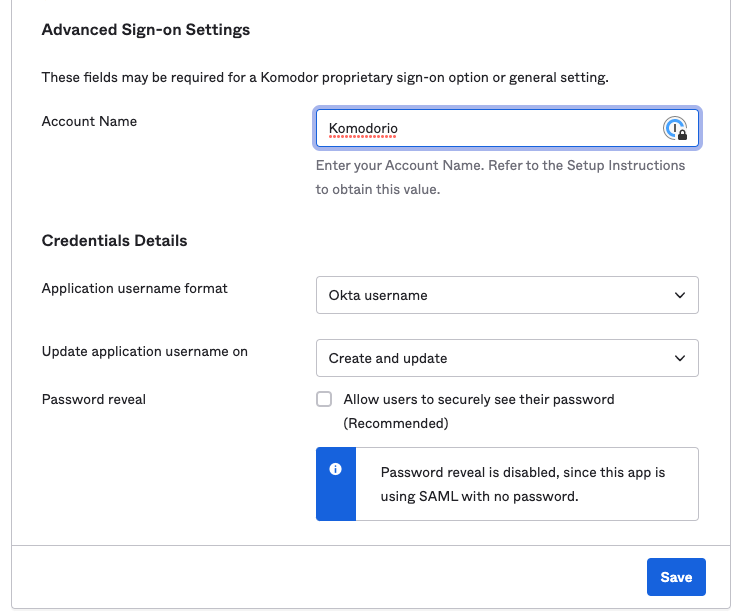
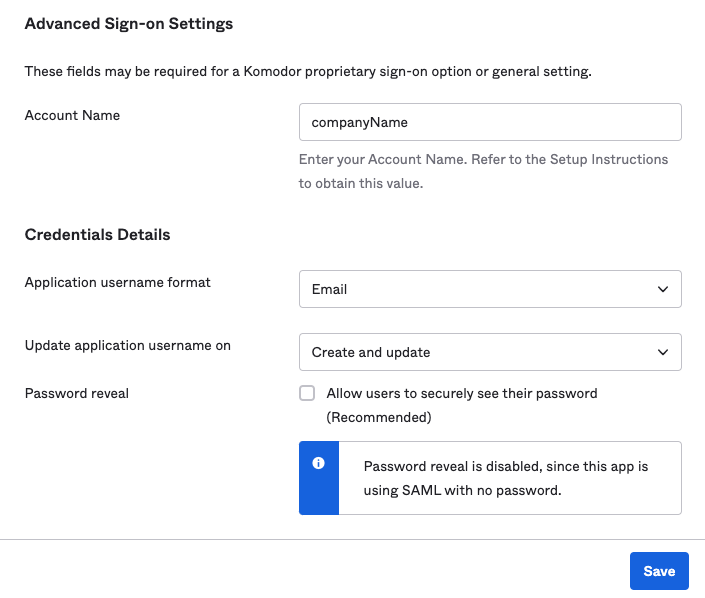
deploy: 4c0f5777e943f8165905399c01c060ca27381d34

diff --git a/Integrations/Okta/Okta.html b/Integrations/Okta/Okta.html
@@ -677,6 +677,8 @@ if (typeof window !== 'undefined' && window.location.href.includes('127.0.0.1'))
 </li>
 <li>
 <p>In 'Advanced Sign-on settings' enter variable of 'Account Name' and pass this variable to us, for example: 'Komodorio'.
+   Please change application username format to Email.
+   **NOTE once you defined 'companyName' it can't be changed
    <img alt="KomodorioAccountName" src="komodorio_account_name.png" /></p>
 </li>
 <li>
